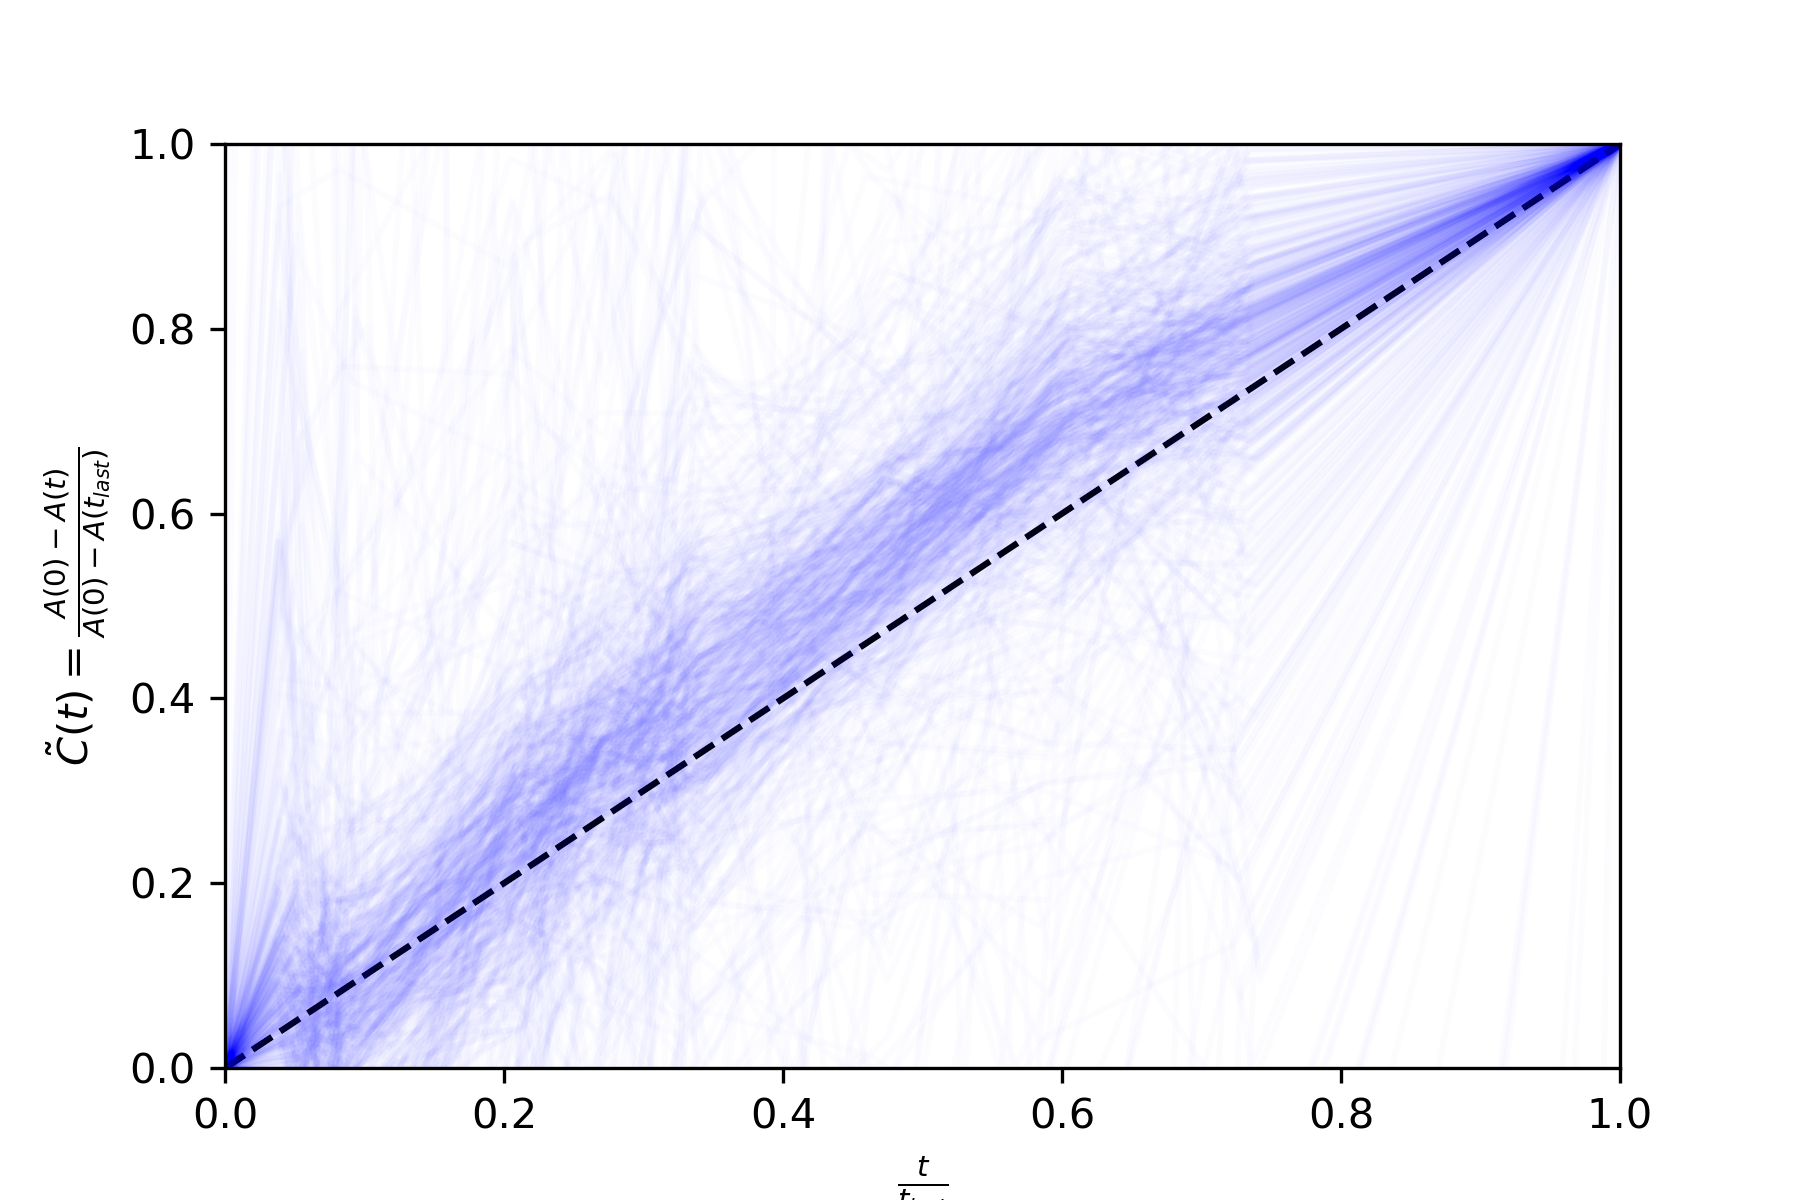
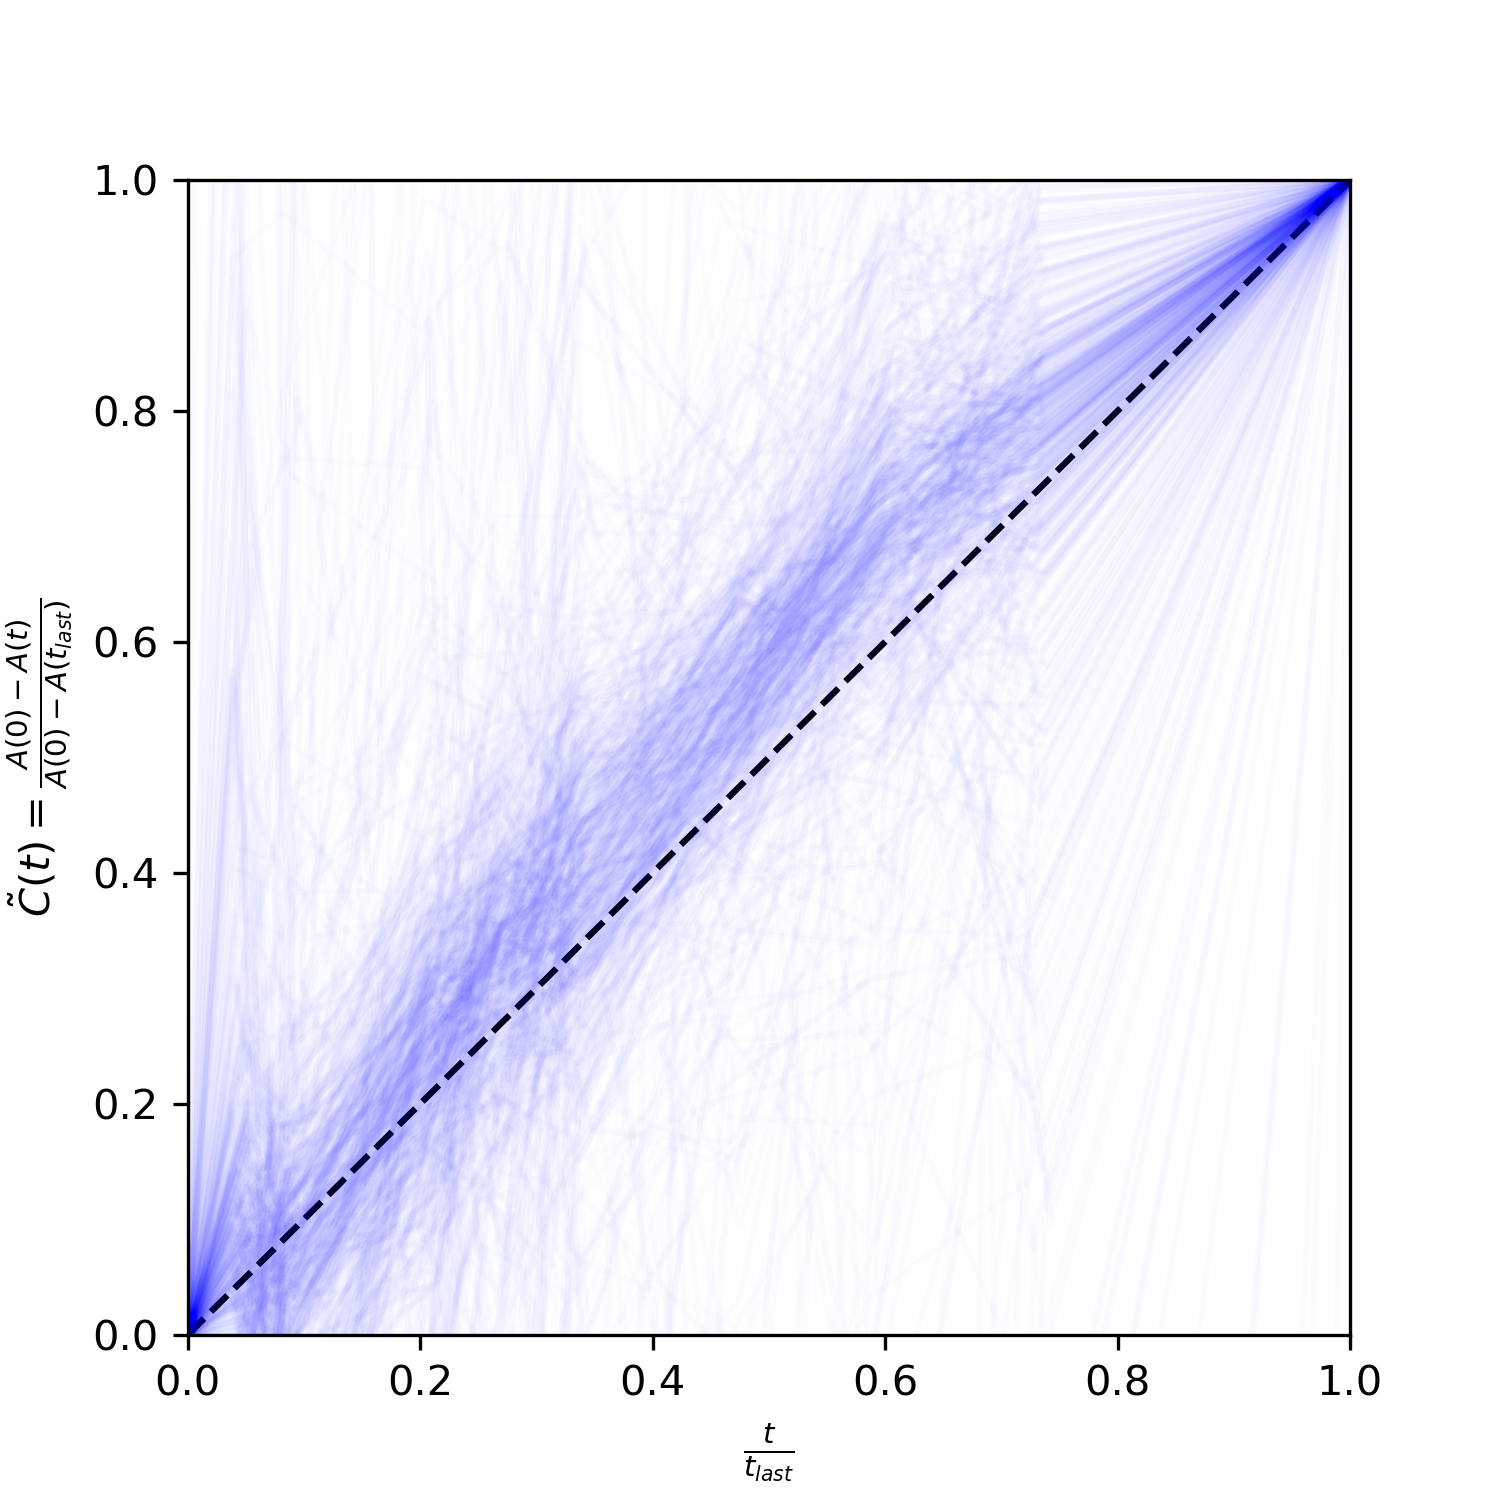
.

diff --git a/csv_data.py b/csv_data.py
@@ -5,7 +5,7 @@ import matplotlib.pyplot as plt
 ext_fig1_df = pd.read_csv('concentrations/lee_etal_ext_fig1.csv')
 ext_fig1_chl_df = ext_fig1_df[ext_fig1_df['Chloramphenicol'] == 'CHL']
 
-fig, ax = plt.subplots(1, 1, figsize=(6, 4))
+fig, ax = plt.subplots(1, 1, figsize=(5, 5))
 ax.set_ylabel(r'$\tilde{C}(t) = \frac{A(0) - A(t)}{A(0) - A(t_{last})}$')
 ax.set_xlabel(r'$\frac{t}{t_{last}}$')
 ax.set_xlim(0, 1)
